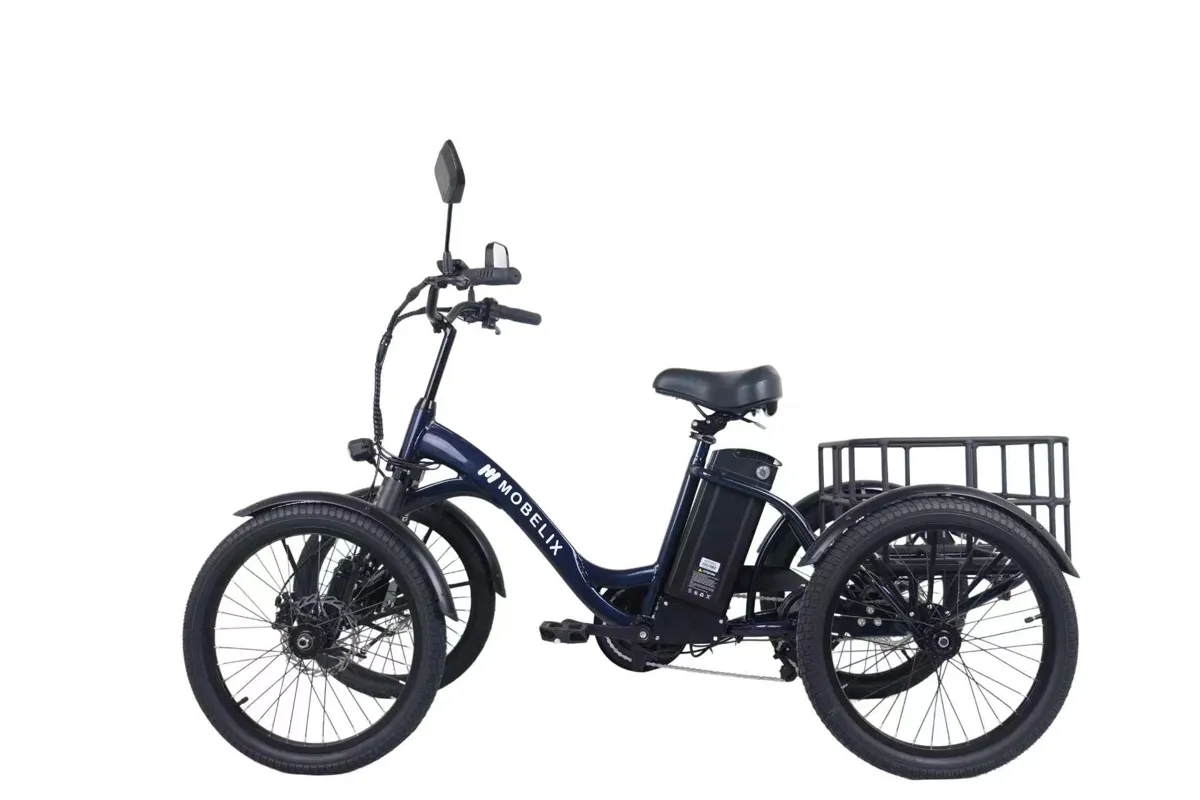
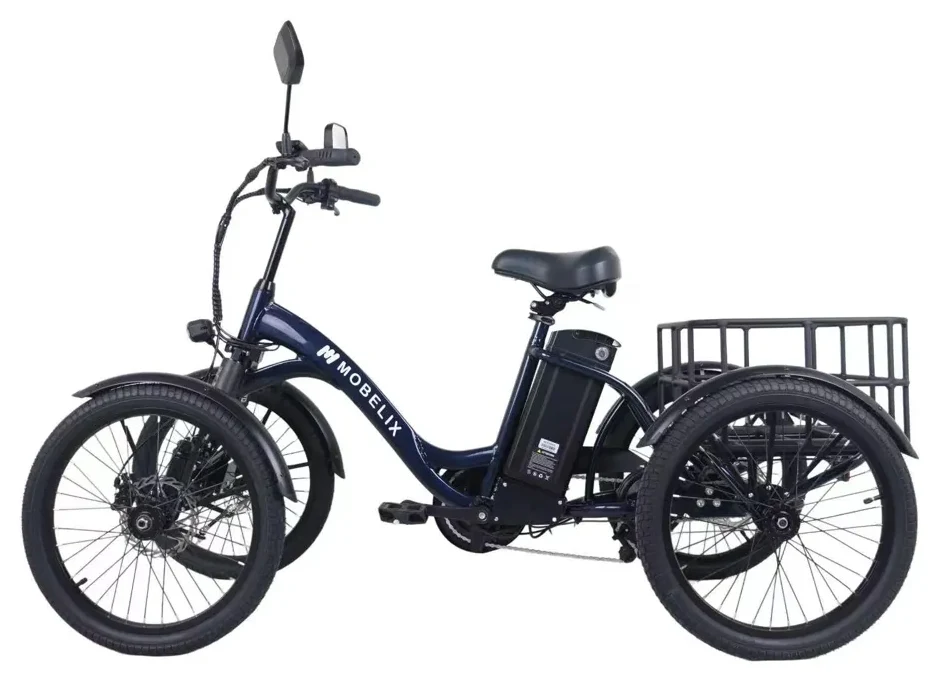
네이비 제품 사진 여백 제거
Claude-Session: https://claude.ai/code/session_01MEDuf33xuxEyvACUoax7xt

Changed region(s): [[0.0, 0.0308, 0.9883, 0.9868]]

diff --git a/index.html b/index.html
@@ -166,6 +166,8 @@ section.band.alt{background:var(--band)}
 .viewer{background:var(--surface);border:1px solid var(--line);border-radius:6px;padding:20px}
 .viewer-main{aspect-ratio:3/2;max-width:100%;display:grid;place-items:center;background:radial-gradient(ellipse at 50% 85%,color-mix(in srgb,var(--gold) 14%,transparent),transparent 60%)}
 .viewer-main{overflow:hidden;position:relative}.viewer-main img{position:absolute;inset:0;width:100%;height:100%;object-fit:contain;padding:8px}
+.viewer-main img.on-white{mix-blend-mode:multiply}
+@media (prefers-color-scheme:dark){.viewer-main img.on-white{mix-blend-mode:normal;border-radius:6px}}
 .viewer-bar{display:flex;flex-wrap:wrap;justify-content:space-between;gap:12px;margin-top:14px;align-items:center}
 .thumbs{display:flex;flex-wrap:wrap;gap:8px}
 .thumbs button{width:68px;height:48px;padding:4px;border:1px solid var(--line);background:var(--bg);border-radius:4px;cursor:pointer}
@@ -633,7 +635,7 @@ footer .wrap{display:flex;flex-wrap:wrap;justify-content:space-between;gap:12px}
       var im=document.createElement('img');im.src='img/'+it[0]+'.webp';im.alt='';b.appendChild(im);
       b.addEventListener('click',function(){idx=i;render()});th.appendChild(b);
     });
-    var cur=list[idx];$('v-img').src='img/'+cur[0]+'.webp';$('v-img').alt=(color==='white'?'화이트':'네이비')+' 모델 '+cur[1];
+    var cur=list[idx];$('v-img').src='img/'+cur[0]+'.webp';$('v-img').alt=(color==='white'?'화이트':'네이비')+' 모델 '+cur[1];$('v-img').classList.toggle('on-white',color==='navy');
     $('c-white').setAttribute('aria-pressed',color==='white');$('c-navy').setAttribute('aria-pressed',color==='navy');
   }
   $('c-white').addEventListener('click',function(){color='white';idx=0;render()});
